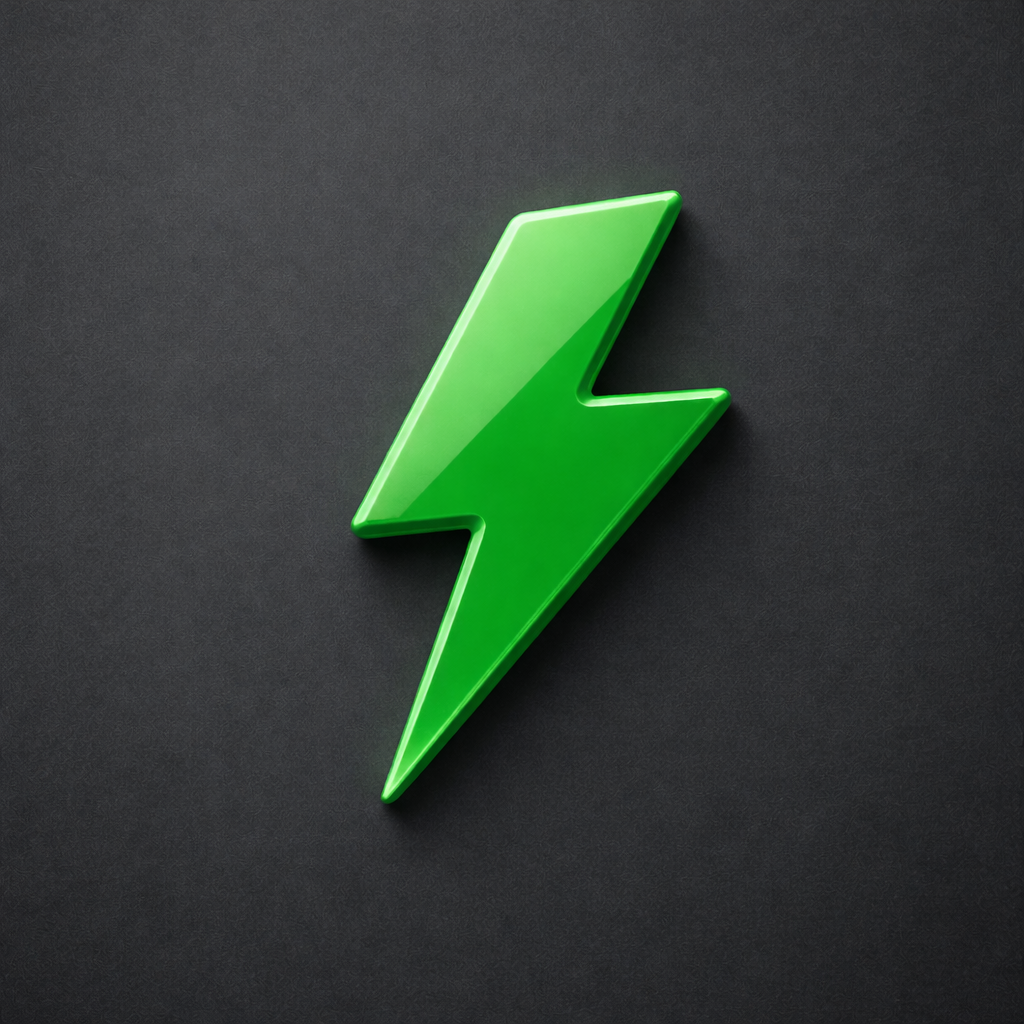
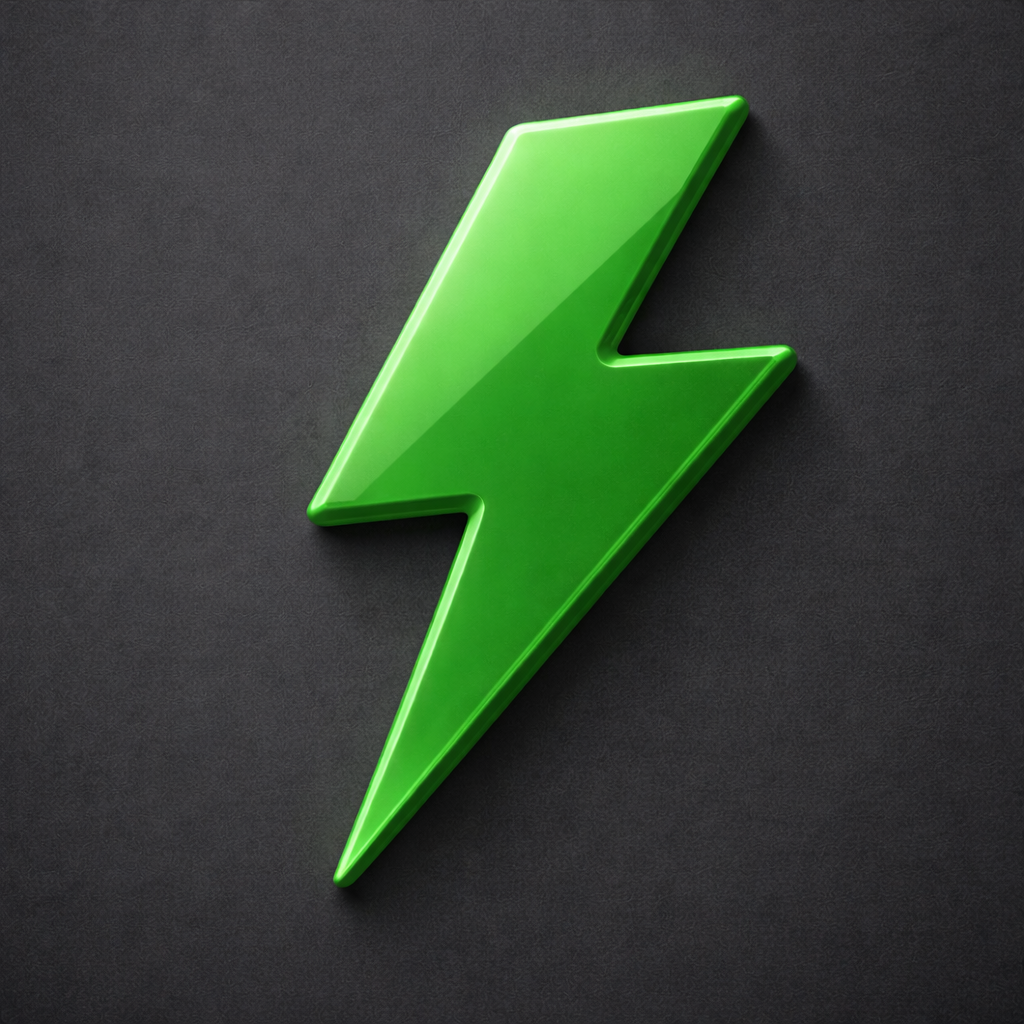
Ensure default habits, cues, and locations are always inserted (remove empty-table check)

Changed region(s): [[0.2812, 0.0938, 0.8125, 0.9062]]

diff --git a/data/DataContext.tsx b/data/DataContext.tsx
@@ -276,61 +276,53 @@ async function initDb() {
 }
 
 async function seedDefaultHabitsIfEmpty() {
-  const rows = await db.getAllAsync<{ count: number }>(
-    "SELECT COUNT(*) as count FROM habits;",
-  );
-  if ((rows?.[0]?.count ?? 0) > 0) return;
-
   await db.execAsync(`
-    INSERT OR IGNORE INTO habits (name, isCustom) VALUES ('Alcohol', 0);
-    INSERT OR IGNORE INTO habits (name, isCustom) VALUES ('Doomscrolling', 0);
-    INSERT OR IGNORE INTO habits (name, isCustom) VALUES ('Nicotine', 0);
-    INSERT OR IGNORE INTO habits (name, isCustom) VALUES ('Binge eating', 0);
+    INSERT OR IGNORE INTO habits (name, isCustom) VALUES ('Social Media', 0);
+    INSERT OR IGNORE INTO habits (name, isCustom) VALUES ('Junk Food', 0);
     INSERT OR IGNORE INTO habits (name, isCustom) VALUES ('Caffeine', 0);
+    INSERT OR IGNORE INTO habits (name, isCustom) VALUES ('Shopping', 0);
+    INSERT OR IGNORE INTO habits (name, isCustom) VALUES ('Video Games', 0);
+    INSERT OR IGNORE INTO habits (name, isCustom) VALUES ('Alcohol', 0);
+    INSERT OR IGNORE INTO habits (name, isCustom) VALUES ('Nicotine', 0);
+    INSERT OR IGNORE INTO habits (name, isCustom) VALUES ('Streaming', 0);
+    INSERT OR IGNORE INTO habits (name, isCustom) VALUES ('Porn', 0);
     INSERT OR IGNORE INTO habits (name, isCustom) VALUES ('Weed', 0);
     INSERT OR IGNORE INTO habits (name, isCustom) VALUES ('Gambling', 0);
-    INSERT OR IGNORE INTO habits (name, isCustom) VALUES ('Video Games', 0);
-    INSERT OR IGNORE INTO habits (name, isCustom) VALUES ('Porn', 0);
+    INSERT OR IGNORE INTO habits (name, isCustom) VALUES ('Prescriptions', 0);
   `);
 }
 
 async function seedDefaultCuesIfEmpty() {
-  const rows = await db.getAllAsync<{ count: number }>(
-    "SELECT COUNT(*) as count FROM cues;",
-  );
-  if ((rows?.[0]?.count ?? 0) > 0) return;
-
   await db.execAsync(`
     INSERT OR IGNORE INTO cues (name, isCustom) VALUES ('Stress', 0);
     INSERT OR IGNORE INTO cues (name, isCustom) VALUES ('Boredom', 0);
     INSERT OR IGNORE INTO cues (name, isCustom) VALUES ('Anxiety', 0);
-    INSERT OR IGNORE INTO cues (name, isCustom) VALUES ('Loneliness', 0);
     INSERT OR IGNORE INTO cues (name, isCustom) VALUES ('Social pressure', 0);
+    INSERT OR IGNORE INTO cues (name, isCustom) VALUES ('Loneliness', 0);
     INSERT OR IGNORE INTO cues (name, isCustom) VALUES ('Tired', 0);
-    INSERT OR IGNORE INTO cues (name, isCustom) VALUES ('Anger', 0);
+    INSERT OR IGNORE INTO cues (name, isCustom) VALUES ('Sadness', 0);
     INSERT OR IGNORE INTO cues (name, isCustom) VALUES ('Celebration', 0);
-    INSERT OR IGNORE INTO cues (name, isCustom) VALUES ('After eating', 0);
-    INSERT OR IGNORE INTO cues (name, isCustom) VALUES ('After work', 0);
+    INSERT OR IGNORE INTO cues (name, isCustom) VALUES ('Notification', 0);
+    INSERT OR IGNORE INTO cues (name, isCustom) VALUES ('Being alone', 0);
+    INSERT OR IGNORE INTO cues (name, isCustom) VALUES ('Seeing it nearby', 0);
+    INSERT OR IGNORE INTO cues (name, isCustom) VALUES ('After work/school', 0);
   `);
 }
 
 async function seedDefaultLocationsIfEmpty() {
-  const rows = await db.getAllAsync<{ count: number }>(
-    "SELECT COUNT(*) as count FROM locations;",
-  );
-  if ((rows?.[0]?.count ?? 0) > 0) return;
-
   await db.execAsync(`
     INSERT OR IGNORE INTO locations (name, isCustom) VALUES ('Bedroom', 0);
+    INSERT OR IGNORE INTO locations (name, isCustom) VALUES ('Living room', 0);
     INSERT OR IGNORE INTO locations (name, isCustom) VALUES ('Bathroom', 0);
-    INSERT OR IGNORE INTO locations (name, isCustom) VALUES ('Car', 0);
+    INSERT OR IGNORE INTO locations (name, isCustom) VALUES ('Kitchen', 0);
     INSERT OR IGNORE INTO locations (name, isCustom) VALUES ('Work', 0);
     INSERT OR IGNORE INTO locations (name, isCustom) VALUES ('School', 0);
+    INSERT OR IGNORE INTO locations (name, isCustom) VALUES ('Car', 0);
+    INSERT OR IGNORE INTO locations (name, isCustom) VALUES ('On phone', 0);
     INSERT OR IGNORE INTO locations (name, isCustom) VALUES ('Gym', 0);
     INSERT OR IGNORE INTO locations (name, isCustom) VALUES ('Friend’s house', 0);
     INSERT OR IGNORE INTO locations (name, isCustom) VALUES ('Bar/Restaurant', 0);
-    INSERT OR IGNORE INTO locations (name, isCustom) VALUES ('Living room', 0);
-    INSERT OR IGNORE INTO locations (name, isCustom) VALUES ('Kitchen', 0);
+    INSERT OR IGNORE INTO locations (name, isCustom) VALUES ('Outside', 0);
   `);
 }
 
